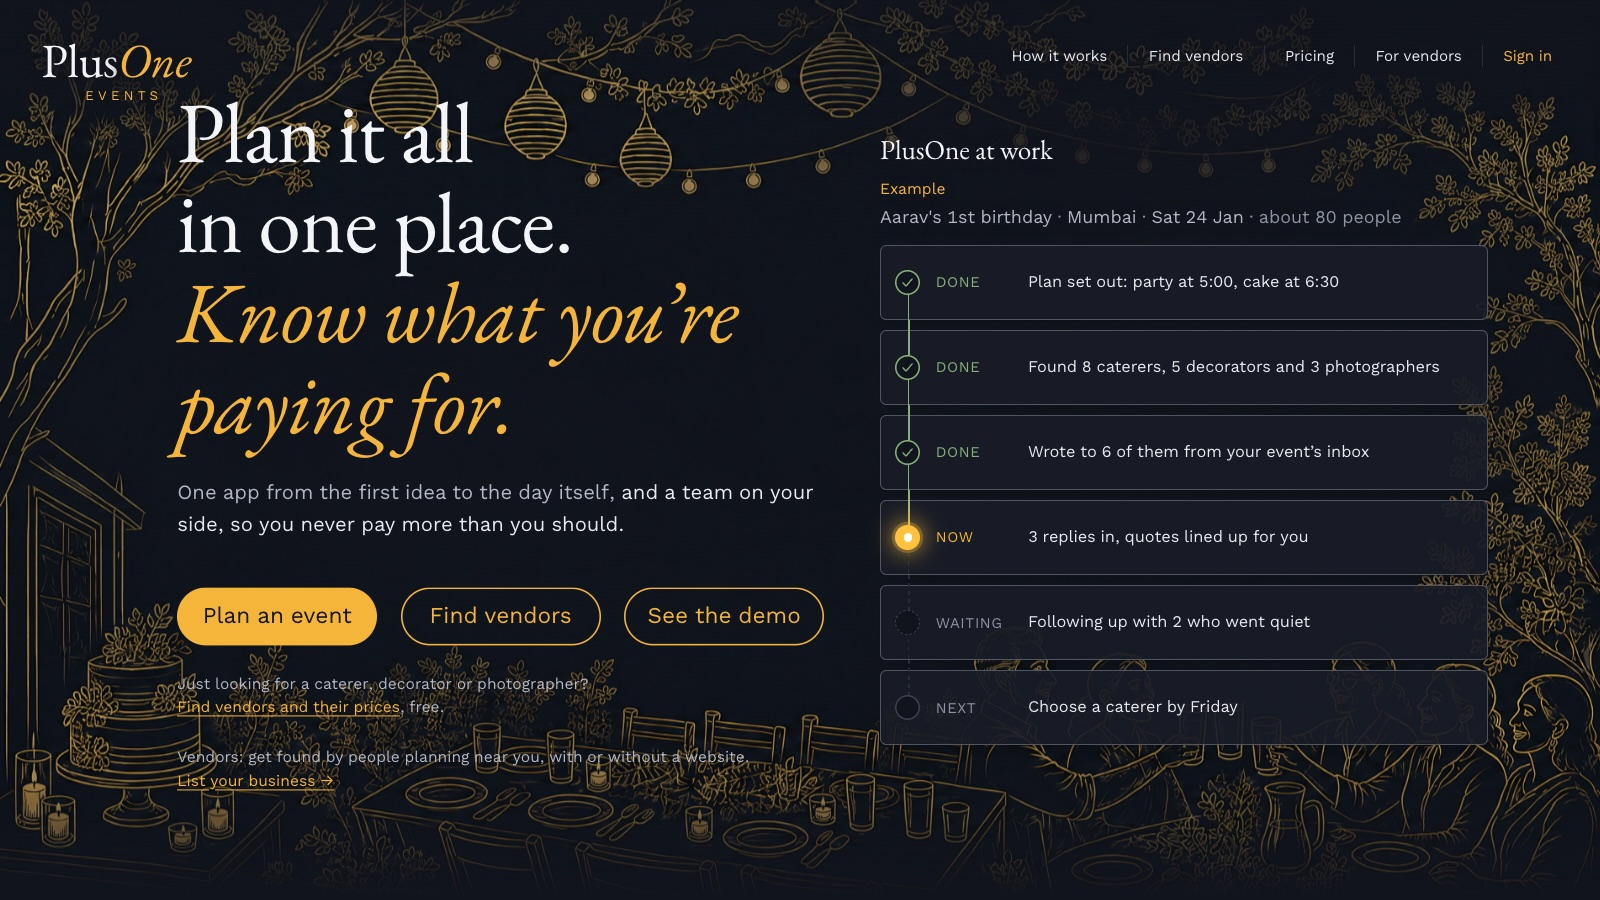
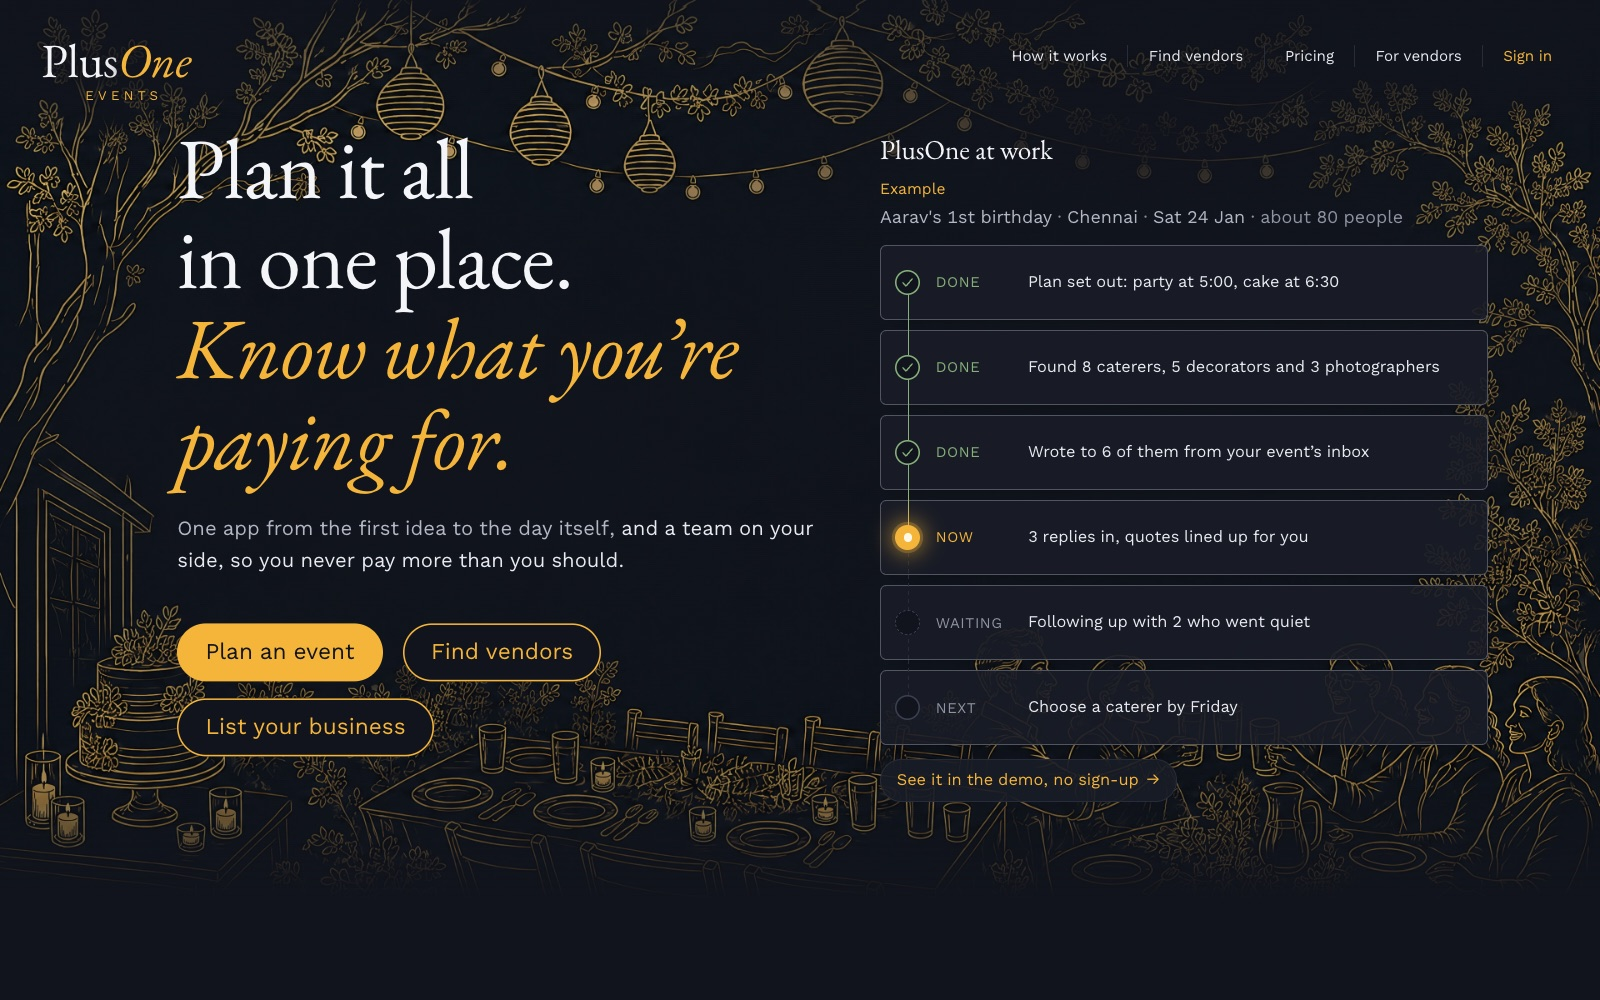
README: the home page screenshot with its three ways in

diff --git a/README.md b/README.md
@@ -257,7 +257,7 @@ Every fee is disclosed. Fair pricing here means informed and comparable: PlusOne
 
 One app, two sides working on the same lines: customers plan and compare, vendors answer, and the PlusOne team checks every vendor before customers see them.
 
-<img src="assets/screens/landing.jpg" width="100%" alt="The home page: 'Plan it all in one place. Know what you're paying for.' over a gold line drawing of a garden dinner, with Plan an event and See the demo, a line for vendors, and PlusOne at work for a sample first birthday: done, now, waiting and next">
+<img src="assets/screens/landing.jpg" width="100%" alt="The home page: 'Plan it all in one place. Know what you're paying for.' over a gold line drawing of a garden dinner, with the three ways in (Plan an event, Find vendors, List your business), and PlusOne at work for a sample first birthday: done, now, waiting and next, with a link to the demo">
 
 ### Planning an event
 
